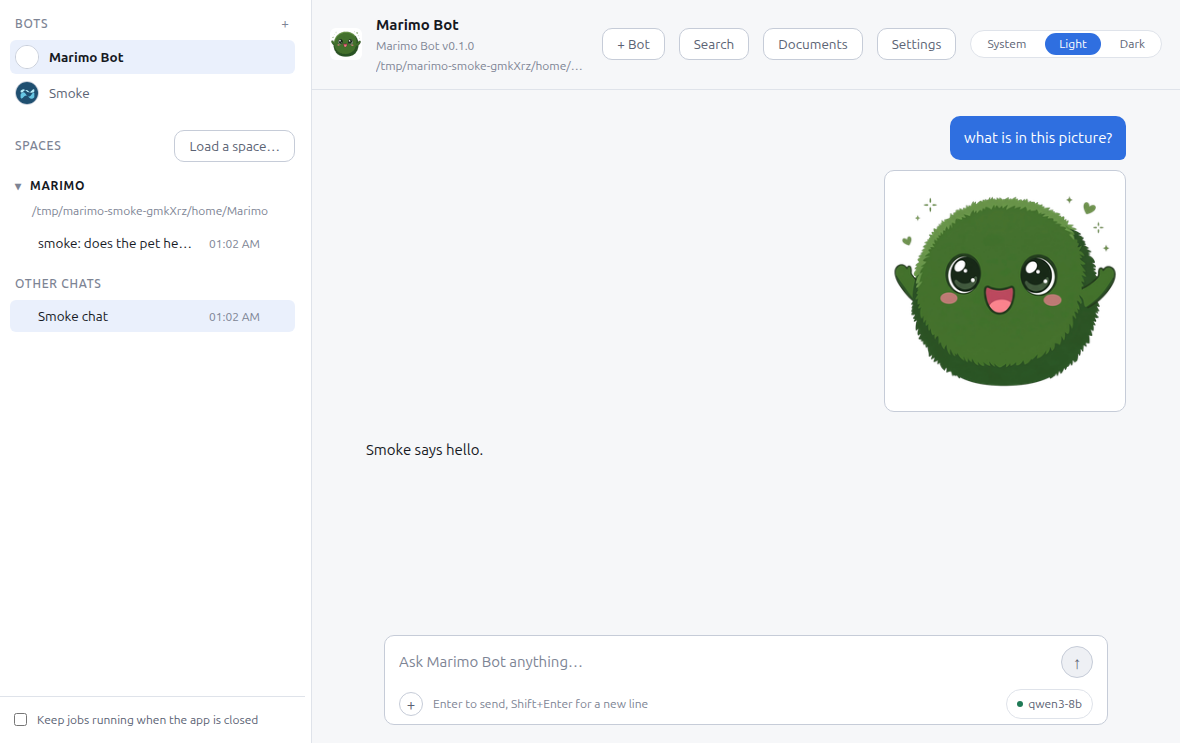
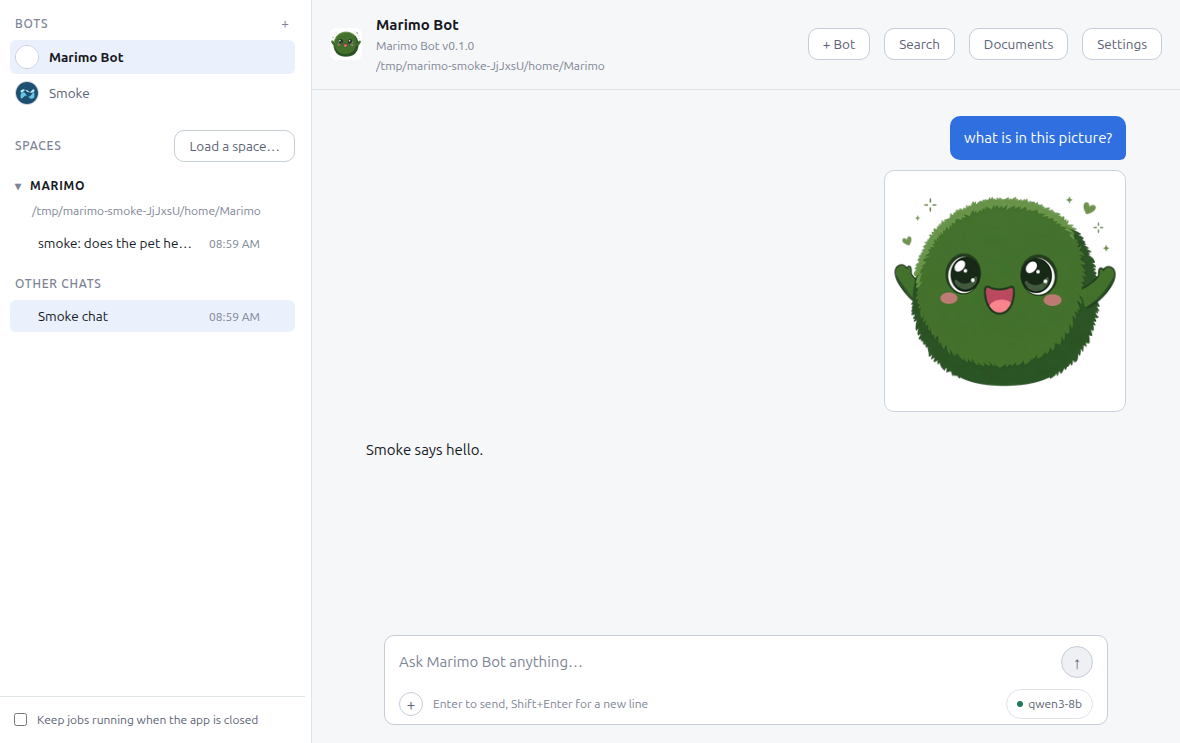
The theme is chosen in Settings, under Appearance
The three-pill switch sat in the header, where it read as part of the
conversation and made a preference about the whole app look like a fact about
this chat. It also used the right-hand end of a header that already carries four
buttons.

Settings → Appearance now owns the Theme field, with System, Light and Dark as
the same three pills. It writes through settings.set, so the existing
theme.changed broadcast still repaints every window, and the card sits beside
Desktop companion because both are facts about the app rather than about a bot.

The smoke check's --theme option opens the card and presses the pill instead of
querying the header, and docs/screenshots/app-light.png is regenerated from that
run so the picture no longer shows a control the window does not have. The
README names the card.

diff --git a/apps/desktop/src/renderer/App.tsx b/apps/desktop/src/renderer/App.tsx
@@ -6,19 +6,19 @@
  * invent a layout, and every departure from the shape people already know is a
  * thing they have to learn before they can ask a question.
  *
- * The theme switch is a preview for now — the preference is a settings write
- * that lands with Settings — but the tokens underneath it are the real ones, so
- * what it previews is what will ship.
+ * The theme is resolved here — `system` against what the operating system
+ * reported — and written from Settings → Appearance. A change there arrives as
+ * `theme.changed`, so the window repaints without the reload that a preference
+ * read only at launch would need.
  */
 import {useCallback, useEffect, useRef, useState} from 'react';
 
-import {COMMAND_IDS, COMMANDS, THEME_MODES} from '@marimo/protocol';
+import {COMMAND_IDS, COMMANDS} from '@marimo/protocol';
 import type {
   AppInfo,
   ProfileCatalog,
   PublicSettings,
   Theme,
-  ThemeMode,
 } from '@marimo/protocol';
 
 import {Composer} from './components/Composer.js';
@@ -326,13 +326,6 @@ export function App(): React.JSX.Element {
   useEffect(() => {
     document.documentElement.dataset['theme'] = theme;
   }, [theme]);
-
-  /** Writes the preference. The event that comes back is what moves the switch. */
-  const setThemeMode = (mode: ThemeMode): void => {
-    void window.marimo
-      .call('settings.set', {patch: {appearance: {theme: mode}}})
-      .catch(() => undefined);
-  };
 
   /**
    * Writes the width a drag settled on.
@@ -950,24 +943,6 @@ export function App(): React.JSX.Element {
           >
             Settings
           </button>
-          <div className="head-theme" role="group" aria-label="Theme">
-            {THEME_MODES.map((mode) => (
-              <button
-                key={mode}
-                type="button"
-                className="theme-button"
-                /* Pressed means "this is the preference", not "this is the
-                   colour" — with `system` chosen, neither Light nor Dark is
-                   pressed even though one of them is what you are looking at. */
-                aria-pressed={agent.themeMode === mode}
-                onClick={() => {
-                  setThemeMode(mode);
-                }}
-              >
-                {mode}
-              </button>
-            ))}
-          </div>
         </header>
 
         {info?.warning !== undefined && (

diff --git a/apps/desktop/src/renderer/components/Settings.tsx b/apps/desktop/src/renderer/components/Settings.tsx
@@ -68,6 +68,7 @@ import {
   defaultBotAvatarFor,
   SKILL_DESCRIPTION_MAX,
   SKILL_INSTRUCTIONS_MAX,
+  THEME_MODES,
 } from '@marimo/protocol';
 
 import {chosenPreset} from '../capabilities.js';
@@ -1154,6 +1155,46 @@ export function Settings({
             ? {}
             : {onOpenConversation: onOpenJobConversation})}
         />
+
+        {/*
+          The window's own colours, beside the companion because both are facts
+          about the app rather than about a bot: the theme reaches every window,
+          including the moss, and it is the same preference whichever chat is
+          open. It used to sit in the header, where it read as part of this
+          conversation.
+        */}
+        <SettingsSection title="Appearance" opened={opened} onToggle={fold}>
+          <div className="settings-field">
+            <span>Theme</span>
+            <div className="theme-switch" role="group" aria-label="Theme">
+              {THEME_MODES.map((mode) => (
+                <button
+                  key={mode}
+                  type="button"
+                  className="theme-button"
+                  /* Pressed means "this is the preference", not "this is the
+                     colour" — with System chosen, neither Light nor Dark is
+                     pressed even though one of them is what you are looking at. */
+                  aria-pressed={loaded.settings.appearance.theme === mode}
+                  disabled={saving}
+                  onClick={() => {
+                    void change(async () => {
+                      await window.marimo.call('settings.set', {
+                        patch: {appearance: {theme: mode}},
+                      });
+                    });
+                  }}
+                >
+                  {mode}
+                </button>
+              ))}
+            </div>
+            <em className="settings-why">
+              System uses this computer’s light or dark setting. Light and Dark
+              pin one.
+            </em>
+          </div>
+        </SettingsSection>
 
         <SettingsSection
           title="Desktop companion"

diff --git a/apps/desktop/src/renderer/styles/chat.css b/apps/desktop/src/renderer/styles/chat.css
@@ -566,7 +566,13 @@ body.resizing-rail * {
   user-select: text;
 }
 
-.head-theme {
+/*
+ * The theme preference, as three pills rather than a menu: there are three
+ * states and each one is a word, so a select would hide two of them. It lives
+ * in Settings → Appearance, where the rest of the app's own look lives.
+ */
+.theme-switch {
+  align-self: flex-start;
   display: flex;
   gap: var(--space-1);
   padding: 2px;

diff --git a/README.md b/README.md
@@ -140,6 +140,8 @@ Bots sit at the top of the sidebar, and picking one shows its chats. Settings ha
 
 Drag the sidebar's right edge to widen it. The width is remembered.
 
+Settings → **Appearance** has the theme: **System** uses this computer's light or dark setting, and **Light** or **Dark** pins one.
+
 Several bots can share a chat, so type `@` to put a question to one of them. Marimo Bot can also hand work to a bot.
 
 The helper runs with that bot's tools in the same chat. If it needs permission, the card appears there, and the helper continues after you approve.
